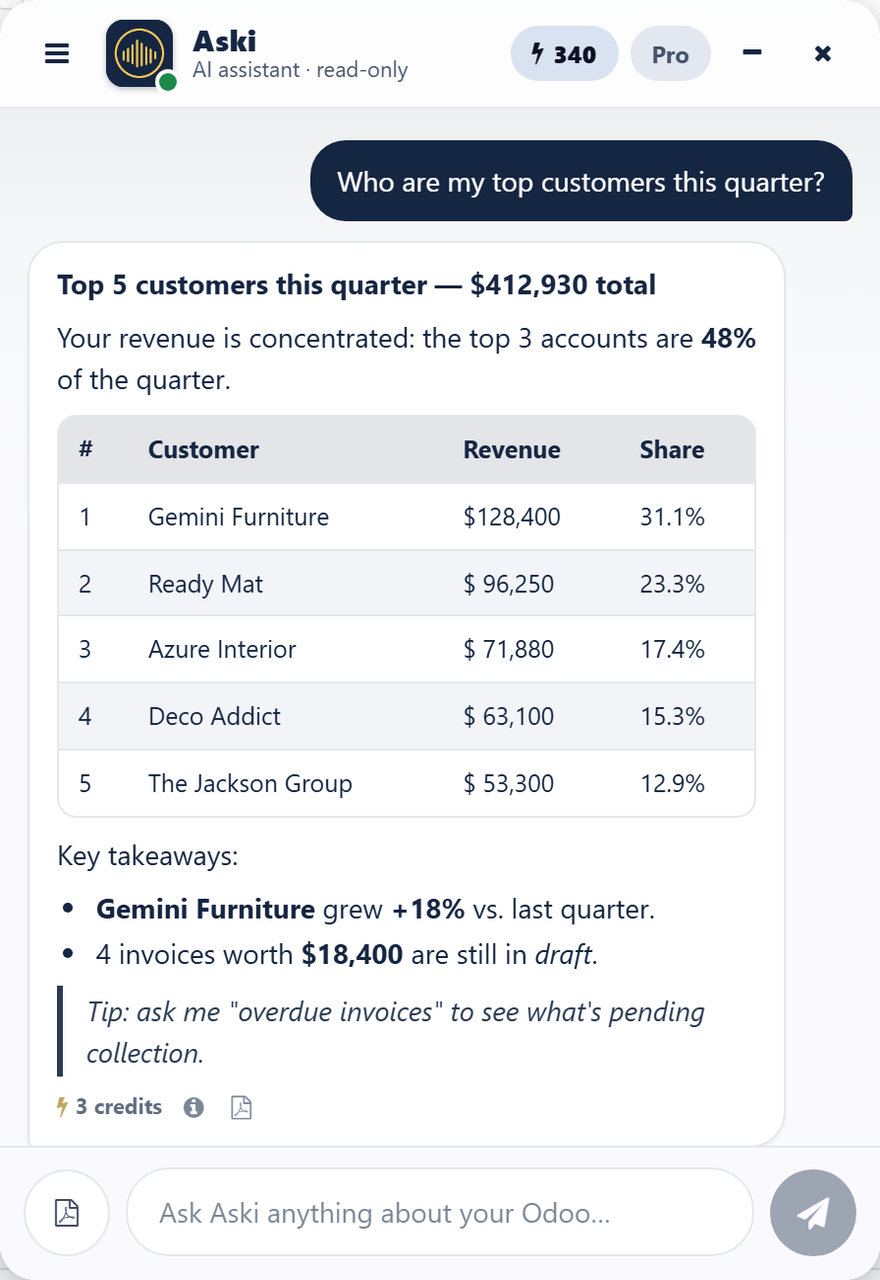
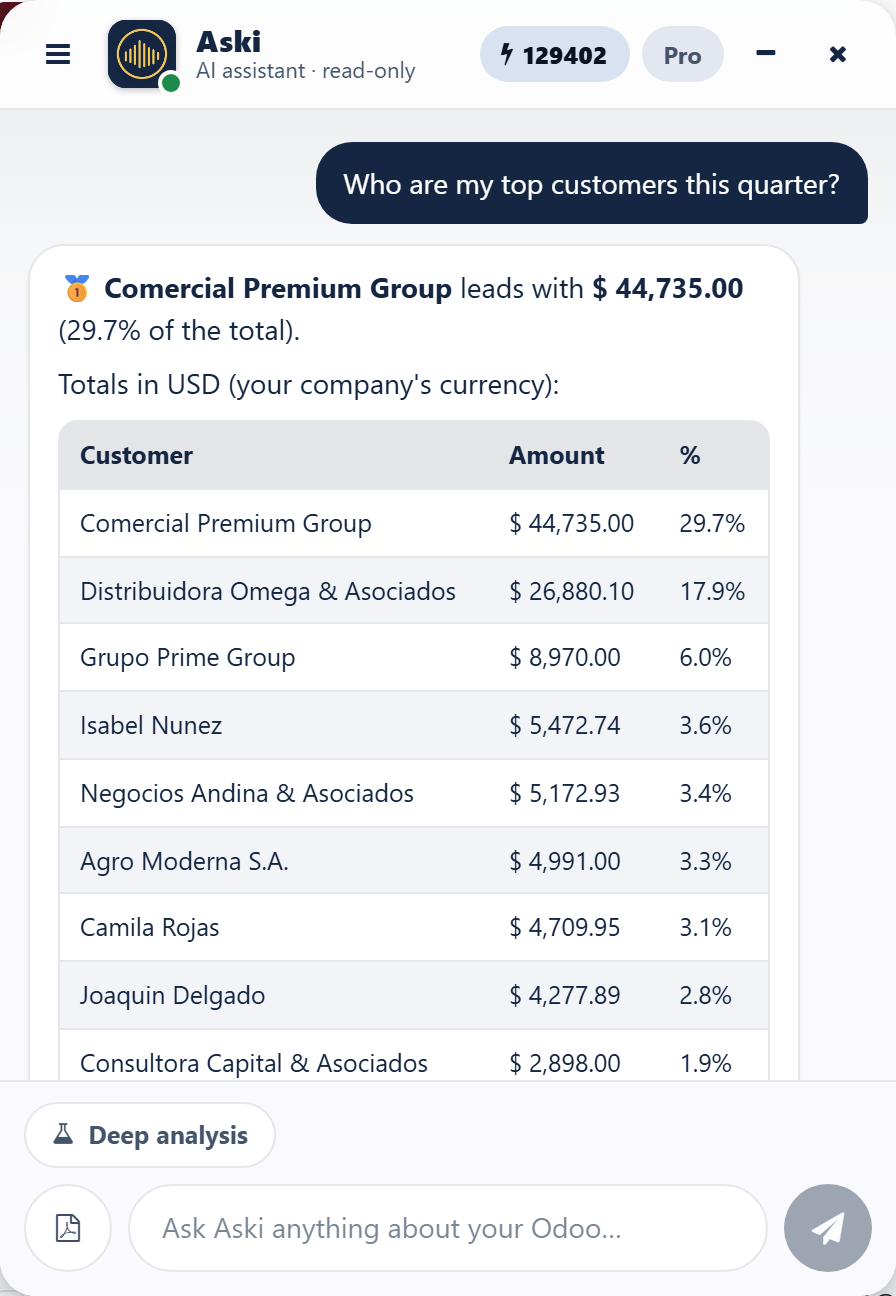
fix(chat): al revocar el token, olvidar tambien el saldo y el plan
Revocando un token DE VERDAD desde la cuenta (lo hizo el usuario en el demo) se
vio que el modulo borraba el token pero se quedaba con el saldo y el plan de esa
conexion. Resultado: en Chat Settings convivian "Conectado: no" y "enterprise /
109.827 creditos", cifras de una conexion que ya no existe.

Ahora un 401 tira token, saldo, plan y la marca de analisis profundo, que es lo
que deja de ser cierto. El correo y el id de credencial se conservan: siguen
siendo ciertos y dicen QUE cuenta hay que reconectar.

Y las capturas de la ficha pasan a ser REALES, tomadas del demo con la version
1.11.1: el chat sobre una lista de contactos de verdad, el primer plano de una
respuesta con su tabla, y la pantalla de bienvenida. Antes eran composiciones
que ya no reflejaban la interfaz (composer de una linea, sin analisis profundo).

diff --git a/aski_connector/models/aski_account_link.py b/aski_connector/models/aski_account_link.py
@@ -329,7 +329,7 @@ class AskiAccountLink(models.Model):
         except Exception as e:  # noqa: BLE001
             return False, _("Could not reach Aski: %s") % e
         if resp.status_code == 401:
-            rec.write({"pat_enc": False})
+            rec._olvidar_token()
             return False, _("That token is invalid or was revoked. Generate a new one in Aski.")
         if resp.status_code != 200:
             return False, rec._error_message(resp)
@@ -515,6 +515,28 @@ class AskiAccountLink(models.Model):
         rec.write({"credential_id": data.get("id")})
         return True, "", ""
 
+    def _olvidar_token(self):
+        """El token ya no vale (revocado desde la cuenta, o caducado).
+
+        Ademas de borrarlo hay que tirar el saldo y el plan que quedaron
+        cacheados: son de una conexion que ya no existe. Sin esto, `Chat
+        Settings` seguia enseñando "enterprise" y miles de creditos junto a un
+        "Conectado: no", que es una cifra que ya no significa nada (visto en el
+        demo tras revocar un token de verdad).
+
+        El correo y el id de credencial SI se conservan: no han dejado de ser
+        ciertos y dicen QUE cuenta hay que volver a conectar. Al desconectar a
+        mano se limpian tambien, porque ahi la intencion es soltar la conexion
+        entera.
+        """
+        self.ensure_one()
+        self.sudo().write({
+            "pat_enc": False,
+            "wallet_credits": 0,
+            "plan_name": False,
+            "agent_enabled": False,
+        })
+
     def _raise_for_chat_error(self, resp):
         """Traduce la respuesta del backend a la excepcion que toca.
 
@@ -527,7 +549,7 @@ class AskiAccountLink(models.Model):
         if resp.status_code == 200:
             return
         if resp.status_code == 401:
-            rec.write({"pat_enc": False})
+            rec._olvidar_token()
             raise UserError(_("Your Aski connection expired. Reconnect in Aski > Chat Settings."))
         if resp.status_code == 402:
             # Cuenta gestionada por un socio: NO ofrecer la compra directa (el

diff --git a/aski_connector/__manifest__.py b/aski_connector/__manifest__.py
@@ -8,7 +8,7 @@
     # las ramas iban desincronizadas (16/17/18 en 1.1.0 pero 19.0 en 1.4.10).
     # Por eso se unifico todo en 1.5.0: es mayor que la mas alta publicada, asi
     # que ninguna serie ve un downgrade. Mantenerlas iguales de aqui en adelante.
-    "version": "19.0.1.11.1",
+    "version": "19.0.1.11.2",
     "category": "Productivity",
     "summary": "AI assistant to ask your Odoo in natural language: sales, "
                "receivables, reports - by chat or voice, from your phone or "
